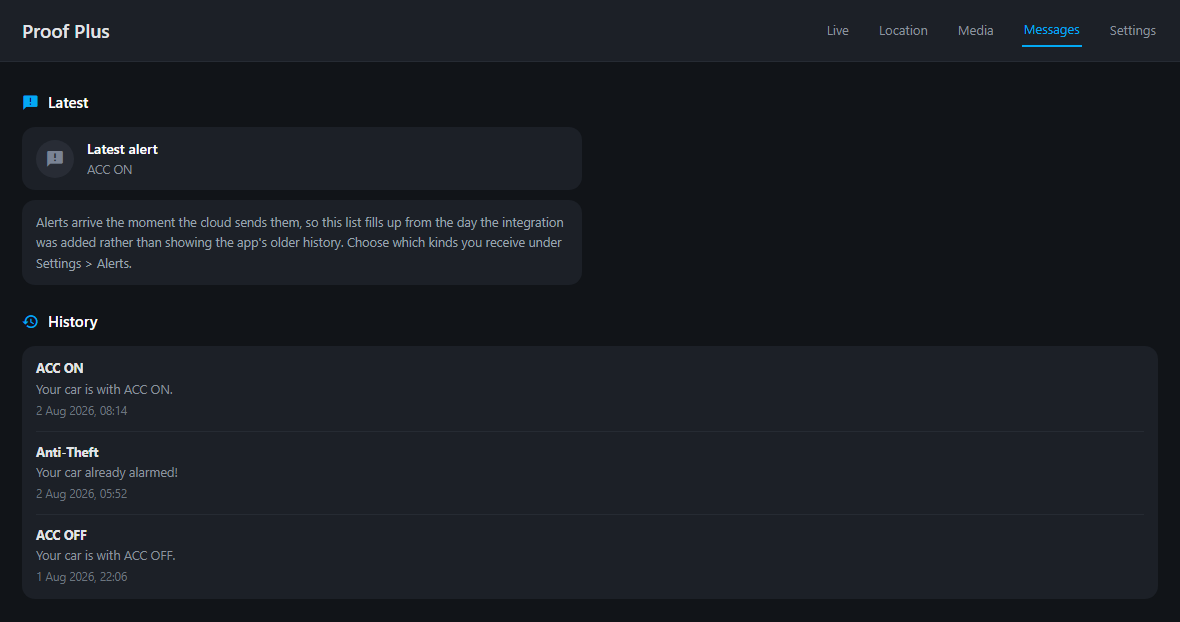
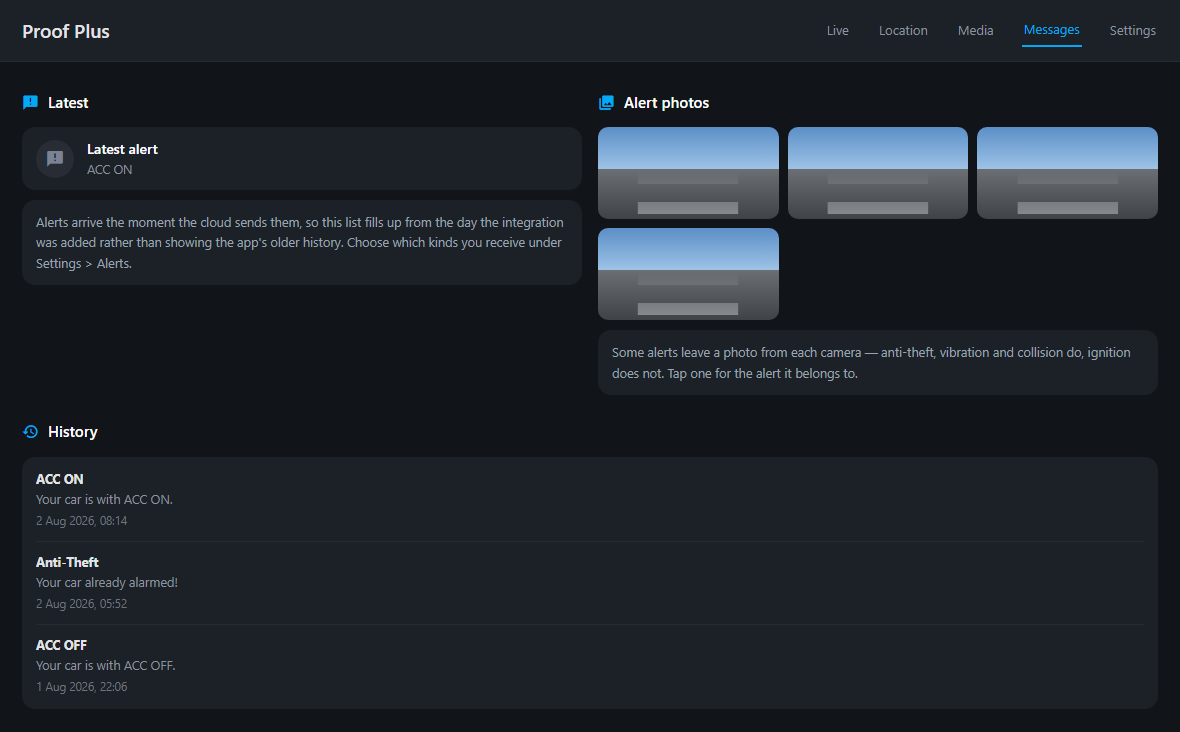
Show the photos that belong to an alert
The app's Messages screen puts a picture from each camera under some alerts.
The cloud offers no link between the two, but the dashcam files those
pictures in the album seconds after the event, so they can be paired by time
— which is what the app itself appears to do.

Alerts are now matched against the album within two minutes either side, and
the matches become image entities carrying the alert they belong to. Only
some alert kinds leave pictures: anti-theft, vibration and collision do,
ignition does not, and an alert with no pictures is recorded as such so it is
not re-examined on every refresh. How many to keep is configurable.

Also fixes the refresh button, which since the Live tab was rebuilt had been
updating snapshot entities nothing displayed while the camera cards served a
separate copy — so it appeared to do nothing. Both now share one still per
camera.

Verified against the account: of eight recorded alerts the three anti-theft
ones matched two pictures each and the ignition ones matched none; the
downloaded picture is stamped 05:52:02 against an alert at 05:52:04. Pressing
the refresh button now changes what both camera cards show.

diff --git a/custom_components/proof_plus/image.py b/custom_components/proof_plus/image.py
@@ -19,7 +19,9 @@ from homeassistant.util import dt as dt_util
 from .const import (
     CONF_ENABLE_LIVE,
     CONF_EVENT_IMAGES,
+    CONF_MESSAGE_IMAGES,
     DEFAULT_EVENT_IMAGES,
+    DEFAULT_MESSAGE_IMAGES,
     DOMAIN,
 )
 from .coordinator import ProofCoordinator
@@ -53,6 +55,14 @@ async def async_setup_entry(
         for device_id in coordinator.data
         for position in range(recent)
     )
+    # Photos belonging to alerts, newest first.
+    keep = entry.options.get(CONF_MESSAGE_IMAGES, DEFAULT_MESSAGE_IMAGES)
+    entities.extend(
+        ProofMessagePhoto(hass, coordinator, device_id, position)
+        for device_id in coordinator.data
+        for position in range(keep)
+    )
+
     # A still from each camera, captured once when the card first renders and
     # then left alone. Needs the live session, so only when live view is on.
     if entry.options.get(CONF_ENABLE_LIVE):
@@ -62,6 +72,92 @@ async def async_setup_entry(
             for index in range(_camera_count(device))
         )
     async_add_entities(entities)
+
+
+class ProofMessagePhoto(ProofEntity, ImageEntity):
+    """One of the photos the dashcam saved for a recent alert.
+
+    Only some alerts leave pictures — anti-theft, vibration and collision do,
+    ignition does not — so the newest photos across all alerts are flattened
+    into a list and this entity shows one position in it.
+    """
+
+    _attr_entity_registry_enabled_default = True
+
+    def __init__(
+        self,
+        hass: HomeAssistant,
+        coordinator: ProofCoordinator,
+        device_id: str,
+        position: int,
+    ) -> None:
+        ProofEntity.__init__(self, coordinator, device_id)
+        ImageEntity.__init__(self, hass)
+        self._position = position
+        self._attr_name = f"Alert photo {position + 1}"
+        self._attr_unique_id = f"{device_id}_message_photo_{position + 1}"
+        self._fid: str | None = None
+        self._photo: dict[str, Any] = {}
+        self._message: dict[str, Any] = {}
+        self._sync()
+
+    def _photos(self) -> list[tuple[dict[str, Any], dict[str, Any]]]:
+        """Every alert photo, newest first, paired with its alert."""
+        return [
+            (photo, message)
+            for message in (self.coordinator.messages.get(self._device_id) or [])
+            for photo in (message.get("photos") or [])
+        ]
+
+    def _sync(self) -> bool:
+        """Point at the photo for this position; True if it changed."""
+        photos = self._photos()
+        photo, message = (
+            photos[self._position] if self._position < len(photos) else ({}, {})
+        )
+        fid = photo.get("fid")
+        if fid == self._fid:
+            return False
+        self._fid, self._photo, self._message = fid, photo, message
+        if when := message.get("time"):
+            self._attr_image_last_updated = dt_util.parse_datetime(when)
+        return True
+
+    @property
+    def available(self) -> bool:
+        """Available once an alert with a photo has arrived."""
+        return super().available and self._fid is not None
+
+    @property
+    def extra_state_attributes(self) -> dict[str, Any]:
+        """Say which alert this picture belongs to."""
+        if not self._fid:
+            return {}
+        attrs: dict[str, Any] = {
+            "camera": self._photo.get("camera"),
+            "alert": self._message.get("topic"),
+            "text": self._message.get("text"),
+            "type": self._message.get("type"),
+        }
+        if when := self._message.get("time"):
+            attrs["time"] = dt_util.as_local(dt_util.parse_datetime(when)).isoformat()
+        for key in ("latitude", "longitude"):
+            if key in self._message:
+                attrs[key] = self._message[key]
+        return attrs
+
+    async def async_image(self) -> bytes | None:
+        """Download this picture on demand."""
+        if self._fid is None:
+            return None
+        return await self.coordinator.client.async_download(
+            self.coordinator.client.file_url(self._fid)
+        )
+
+    def _handle_coordinator_update(self) -> None:
+        if self._sync():
+            self._cached_image = None
+        super()._handle_coordinator_update()
 
 
 _SNAPSHOT_KEYS = {0: "front_snapshot", 1: "rear_snapshot"}
@@ -114,7 +210,9 @@ class ProofLiveSnapshotImage(ProofEntity, ImageEntity):
     @property
     def data(self) -> bytes | None:
         """The last captured still, if there is one."""
-        return self._data
+        return self._data or (
+            self.coordinator.stills.get(self._device_id) or {}
+        ).get(self._cam_index)
 
     async def async_added_to_hass(self) -> None:
         """Make this snapshot reachable by the refresh button."""
@@ -162,6 +260,10 @@ class ProofLiveSnapshotImage(ProofEntity, ImageEntity):
                     self._data = await self.hass.async_add_executor_job(
                         _frame_to_jpeg, frame
                     )
+                    # Share it, so the camera card shows this new picture too.
+                    self.coordinator.stills.setdefault(self._device_id, {})[
+                        self._cam_index
+                    ] = self._data
                     self._attr_image_last_updated = dt_util.utcnow()
                     self.async_write_ha_state()
                     return True
@@ -173,9 +275,9 @@ class ProofLiveSnapshotImage(ProofEntity, ImageEntity):
 
     async def async_image(self) -> bytes | None:
         """Serve the still, capturing one the first time it is asked for."""
-        if self._data is None:
+        if self.data is None:
             await self.async_capture()
-        return self._data
+        return self.data
 
 
 class ProofEventImage(ProofEntity, ImageEntity):

diff --git a/custom_components/proof_plus/coordinator.py b/custom_components/proof_plus/coordinator.py
@@ -80,6 +80,10 @@ class ProofCoordinator(DataUpdateCoordinator[dict[str, dict[str, Any]]]):
         # Snapshot images register themselves here so the refresh button can
         # find them without reaching into Home Assistant's platform internals.
         self.snapshot_images: dict[str, list[Any]] = {}
+        # The latest still per camera, shared by the camera entity that shows
+        # it and the image entity the refresh button drives. Keeping one copy
+        # is what makes "Take new photos" change the picture on the card.
+        self.stills: dict[str, dict[int, bytes]] = {}
         # How many recordings each album folder lists.
         self.album_limit = entry.options.get(CONF_ALBUM_LIMIT, DEFAULT_ALBUM_LIMIT)
         scan_interval = entry.options.get(CONF_SCAN_INTERVAL, DEFAULT_SCAN_INTERVAL)
@@ -259,7 +263,48 @@ class ProofCoordinator(DataUpdateCoordinator[dict[str, dict[str, Any]]]):
         await self._async_refresh_alerts()
         if self._fetch_events:
             await self._async_refresh_events(result)
+            self._attach_message_photos()
         return result
+
+    def _attach_message_photos(self) -> None:
+        """Pair each alert with the pictures the dashcam saved for it.
+
+        Some alerts leave a photo from each camera in the cloud album a few
+        seconds later; ignition alerts leave none. The cloud gives no link
+        between the two, so match them the way the app's own screen appears
+        to — by time.
+        """
+        from .const import MESSAGE_PHOTO_WINDOW
+
+        for device_id, messages in self.messages.items():
+            events = [
+                e for e in (self.latest_events.get(device_id) or [])
+                if e.get("ftype") == "image" and e.get("fid") and e.get("time")
+            ]
+            if not events:
+                continue
+            for message in messages:
+                if "photos" in message:
+                    continue
+                when = message.get("time")
+                if not when:
+                    continue
+                try:
+                    stamp = dt_util.parse_datetime(when).timestamp()
+                except (TypeError, ValueError, AttributeError):
+                    continue
+                photos = [
+                    {
+                        "fid": e["fid"],
+                        "camera": "Rear" if e.get("camid") else "Front",
+                    }
+                    for e in events
+                    if abs(e["time"] / 1000 - stamp) <= MESSAGE_PHOTO_WINDOW
+                ]
+                # Record the empty result too, so an alert that never had
+                # pictures is not re-examined on every refresh.
+                message["photos"] = photos
+            self._save_props()
 
     async def _async_refresh_alerts(self) -> None:
         """Read the account's alert toggles; a failure must not fail the update."""

diff --git a/custom_components/proof_plus/camera.py b/custom_components/proof_plus/camera.py
@@ -202,7 +202,6 @@ class ProofCamera(ProofEntity, Camera):
         # The last still we produced, and how many times we had to wake the
         # dashcam to get one. The counter is surfaced as an attribute so this
         # cannot silently start costing mobile data again.
-        self._still: bytes | None = None
         self._captures = 0
 
     # --- device session lifecycle ------------------------------------------
@@ -240,7 +239,10 @@ class ProofCamera(ProofEntity, Camera):
     @property
     def extra_state_attributes(self) -> dict[str, Any]:
         """Expose how often the dashcam was woken for a still."""
-        return {"captures": self._captures, "has_still": self._still is not None}
+        return {
+            "captures": self._captures,
+            "has_still": self._cached_snapshot() is not None,
+        }
 
     def _cached_snapshot(self) -> bytes | None:
         """The still already on hand for this camera, if any.
@@ -248,10 +250,9 @@ class ProofCamera(ProofEntity, Camera):
         Prefer the snapshot entity's copy, since the refresh button and the
         auto-refresh switch keep that one current.
         """
-        for image in self.coordinator.snapshot_images.get(self._device_id) or []:
-            if image.cam_index == self._cam_index and image.data is not None:
-                return image.data
-        return self._still
+        return (self.coordinator.stills.get(self._device_id) or {}).get(
+            self._cam_index
+        )
 
     async def async_camera_image(
         self, width: int | None = None, height: int | None = None
@@ -283,7 +284,9 @@ class ProofCamera(ProofEntity, Camera):
                 still = await self.hass.async_add_executor_job(_frame_to_jpeg, frame)
                 # Keep it: a picture card asks again every few seconds, and
                 # without this every one of those would wake the dashcam.
-                self._still = still
+                self.coordinator.stills.setdefault(self._device_id, {})[
+                    self._cam_index
+                ] = still
                 self._captures += 1
                 return still
             await asyncio.sleep(0.1)

diff --git a/custom_components/proof_plus/config_flow.py b/custom_components/proof_plus/config_flow.py
@@ -34,6 +34,7 @@ from .const import (
     CONF_ENABLE_MEDIA_BROWSER,
     CONF_ENABLE_SNAPSHOT,
     CONF_EVENT_IMAGES,
+    CONF_MESSAGE_IMAGES,
     CONF_LIVE_KEEPALIVE,
     CONF_REFRESH_TOKEN,
     CONF_SCAN_INTERVAL,
@@ -42,6 +43,8 @@ from .const import (
     CONF_SNAPSHOT_INTERVAL,
     DEFAULT_ALBUM_LIMIT,
     DEFAULT_EVENT_IMAGES,
+    DEFAULT_MESSAGE_IMAGES,
+    MAX_MESSAGE_IMAGES,
     DEFAULT_LIVE_KEEPALIVE,
     DEFAULT_SETTINGS_INTERVAL,
     DEFAULT_SCAN_INTERVAL,
@@ -262,8 +265,17 @@ class ProofOptionsFlow(OptionsFlow):
                     ),
                     vol.Required(
                         CONF_EVENT_IMAGES,
+    CONF_MESSAGE_IMAGES,
                         default=options.get(CONF_EVENT_IMAGES, DEFAULT_EVENT_IMAGES),
                     ): vol.All(vol.Coerce(int), vol.Range(min=0, max=MAX_EVENT_IMAGES)),
+                    vol.Required(
+                        CONF_MESSAGE_IMAGES,
+                        default=options.get(
+                            CONF_MESSAGE_IMAGES, DEFAULT_MESSAGE_IMAGES
+                        ),
+                    ): vol.All(
+                        vol.Coerce(int), vol.Range(min=0, max=MAX_MESSAGE_IMAGES)
+                    ),
                     vol.Required(
                         CONF_ALBUM_LIMIT,
                         default=options.get(CONF_ALBUM_LIMIT, DEFAULT_ALBUM_LIMIT),

diff --git a/custom_components/proof_plus/const.py b/custom_components/proof_plus/const.py
@@ -17,6 +17,7 @@ CONF_ALBUM_LIMIT = "album_limit"
 CONF_SELFCHECK_INTERVAL = "selfcheck_interval"
 CONF_EVENT_IMAGES = "event_images"
 CONF_SNAPSHOT_INTERVAL = "snapshot_interval"
+CONF_MESSAGE_IMAGES = "message_images"
 
 DEFAULT_SCAN_INTERVAL = 30  # seconds; the device itself reports every ~30s
 MIN_SCAN_INTERVAL = 10
@@ -70,3 +71,13 @@ MAX_EVENT_IMAGES = 12
 # is deliberately not frequent.
 DEFAULT_SNAPSHOT_INTERVAL = 15
 MIN_SNAPSHOT_INTERVAL = 1
+
+# How many photos attached to alerts to keep on hand. Some alerts (anti-theft,
+# vibration, collision) leave a picture from each camera in the cloud album;
+# ignition alerts do not. 0 turns the feature off.
+DEFAULT_MESSAGE_IMAGES = 4
+MAX_MESSAGE_IMAGES = 12
+
+# How far either side of an alert to look for its pictures. The dashcam
+# uploads them a little after the event, and the two clocks are not exact.
+MESSAGE_PHOTO_WINDOW = 120

diff --git a/README.md b/README.md
@@ -24,6 +24,7 @@ Per dashcam on your account:
 | `sensor` Last seen | Timestamp of the last report |
 | `sensor` Last message | The newest alert the cloud pushed, with the recent ones as attributes |
 | `image` Front/Rear snapshot | A still from each camera, taken on demand (with live view enabled) |
+| `image` Alert photo 1…N | The pictures the dashcam saved for recent alerts |
 
 Redacted diagnostics are available from the integration page for troubleshooting.
 
@@ -165,6 +166,16 @@ assigns it, so a replay cannot duplicate the list.
 
 Which alerts you get is controlled by the **Alerts** switches (ignition, vibration, collision,
 share button, geofence, over-speed), the same account settings the app uses.
+
+### Alert photos
+
+Some alerts leave a picture from each camera in the cloud album — anti-theft, vibration and
+collision do; ignition does not. The cloud gives no link between an alert and its pictures, so they
+are matched the way the app's own screen appears to: by time, within two minutes either side.
+
+Matched pictures become `image.<device>_alert_photo_1…N`, newest first, each carrying the alert it
+belongs to (`alert`, `text`, `type`, `time`, `camera`) as attributes. How many to keep is set by
+**Alert photos to keep** under **Configure** — four by default, 0 to turn them off.
 
 Every alert also fires a `proof_plus_message` event on the Home Assistant bus, so you can trigger
 automations on one directly:
